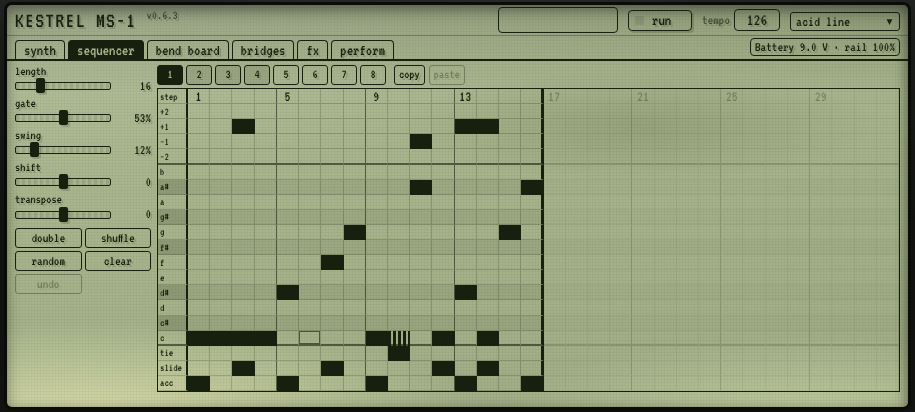
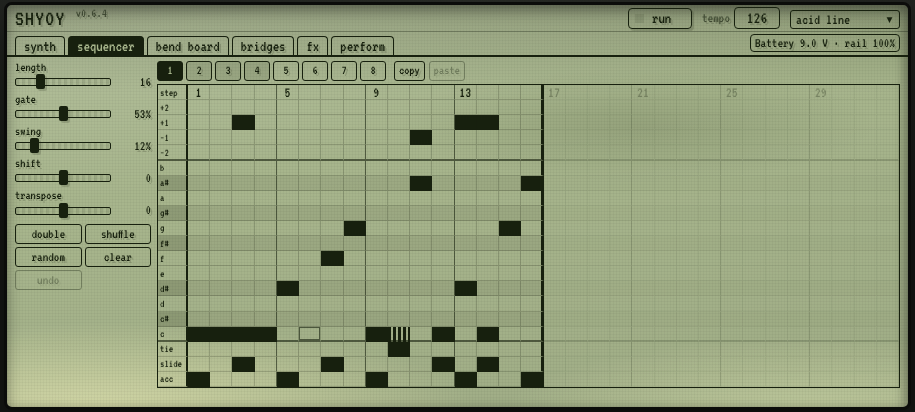
Rename to Shyoy, remove scope (v0.7.0)
Claude-Session: https://claude.ai/code/session_018ENZqToTPTY7BRZqa8ZT6d

Changed region(s): [[0.0, 0.0, 1.0, 0.9612], [0.4284, 0.466, 0.4896, 0.4951], [0.5508, 0.466, 0.5814, 0.4951]]

diff --git a/index.html b/index.html
@@ -9,7 +9,7 @@
 <link rel="apple-touch-icon" href="icons/apple-touch-icon.png">
 </head>
 <body>
-<title>Kestrel MS-1</title>
+<title>Shyoy</title>
 <meta name="claude:viewport-fit-sides" content="cover">
 <link rel="preconnect" href="https://fonts.googleapis.com">
 <link rel="stylesheet" href="https://fonts.googleapis.com/css2?family=VT323&display=swap">
@@ -66,7 +66,6 @@ select.btn { padding-right: 6px; }
 select.btn option { color: #000; }
 .num { display: flex; flex-direction: column; align-items: flex-start; gap: 0; font-size: 18px; color: var(--muted); text-transform: lowercase; }
 .num input { width: 64px; font-size: 26px; background: none; color: var(--ink); border: 2px solid var(--ink); border-radius: 4px; padding: 0 6px; text-align: center; text-shadow: var(--shadow); }
-canvas.scope { width: 200px; height: 46px; border: 2px solid var(--ink); border-radius: 4px; display: block; }
 
 .rack { display: grid; grid-template-columns: repeat(auto-fit, minmax(150px, auto)); gap: 0; border-bottom: var(--rule); }
 .mod { padding: 10px 14px 12px; border-right: var(--rule); display: flex; flex-direction: column; gap: 8px; min-width: 0; }
@@ -269,7 +268,6 @@ table.mx { border-collapse: separate; border-spacing: 4px; font-size: 17px; }
 .status { font-size: 17px; color: var(--muted); }
 @media (max-width: 700px) {
   .mod { border-right: 0; border-bottom: var(--rule); }
-  canvas.scope { width: 100%; }
   .brand { margin-right: 0; width: 100%; }
 }
 @media (prefers-reduced-motion: reduce) { * { transition: none !important; } }
@@ -282,7 +280,6 @@ table.mx { border-collapse: separate; border-spacing: 4px; font-size: 17px; }
   .lower { display: contents; }
   .top { order: 0; padding: 2px 8px; gap: 4px 10px; flex-wrap: nowrap; flex: none; }
   .brand b { font-size: 22px; } .brand span { display: none; } .ver { font-size: 13px; }
-  canvas.scope { width: 120px; height: 26px; border-width: 1px; }
   .btn { font-size: 16px; padding: 0 6px; border-width: 1.5px; }
   .btn.play { min-width: 64px; }
   .num { flex-direction: row; align-items: center; gap: 4px; font-size: 14px; }
@@ -340,12 +337,11 @@ table.mx { border-collapse: separate; border-spacing: 4px; font-size: 17px; }
 <div class="rotate" role="alert">
   <svg viewBox="0 0 64 64" fill="none" stroke="currentColor" stroke-width="3" aria-hidden="true"><rect x="20" y="6" width="24" height="44" rx="3"/><path d="M29 44h6"/></svg>
   Turn your phone sideways
-  <small>Kestrel is laid out like the hardware, so it plays in landscape.</small>
+  <small>Shyoy is laid out like the hardware, so it plays in landscape.</small>
 </div>
 <div class="unit" id="unit">
   <header class="top">
-    <div class="brand"><b>KESTREL MS-1 <i class="ver" id="ver">v0.6.4</i></b><span>Circuit-modelled monosynth · bendable</span></div>
-    <canvas class="scope" id="scope" width="400" height="92" aria-label="Oscilloscope"></canvas>
+    <div class="brand"><b>SHYOY <i class="ver" id="ver">v0.7.0</i></b><span>Circuit-modelled monosynth · bendable</span></div>
     <div class="transport">
       <button class="btn play" id="play"><span class="led"></span><span id="playLab">Run</span></button>
       <label class="num">Tempo<input id="bpm" type="number" min="40" max="240" value="124"></label>
@@ -456,7 +452,7 @@ table.mx { border-collapse: separate; border-spacing: 4px; font-size: 17px; }
 </div>
 <div class="install" id="install" role="dialog" aria-labelledby="installH" hidden>
   <svg viewBox="0 0 32 32" aria-hidden="true"><rect x="3" y="3" width="26" height="26" rx="4" fill="none" stroke="currentColor" stroke-width="2.5"/><path d="M9 24v-5M14 24V9M19 24v-8M24 24v-11" stroke="currentColor" stroke-width="3"/></svg>
-  <div><b id="installH">Install Kestrel</b><span>Add it to your home screen. It opens full screen in landscape and works offline.</span></div>
+  <div><b id="installH">Install Shyoy</b><span>Add it to your home screen. It opens full screen in landscape and works offline.</span></div>
   <button class="btn" id="installGo">Install</button><button class="btn light" id="installNo">Not now</button>
 </div>
 <p class="hint">Play from your computer keyboard: <kbd>A</kbd>–<kbd>K</kbd> white keys, <kbd>W</kbd> <kbd>E</kbd> <kbd>T</kbd> <kbd>Y</kbd> <kbd>U</kbd> black keys, <kbd>Z</kbd>/<kbd>X</kbd> transpose low/high, <kbd>Space</kbd> run/stop. While a sequencer runs, keys transpose it. Arpeggio and the 100-step sequencer step once per LFO cycle, so the LFO rate is their tempo. In Load, each key adds a step; play the next key before releasing the last to tie them. Sound starts on your first click or key press. Your patch and pattern are kept in this browser.</p>
@@ -1719,12 +1715,10 @@ async function boot() {
     try { await ctx.audioWorklet.addModule(url); }
     catch (e) { await ctx.audioWorklet.addModule('data:application/javascript;base64,' + btoa(unescape(encodeURIComponent(code)))); }
     node = new AudioWorkletNode(ctx, 'kestrel-ms1', { numberOfInputs: 0, outputChannelCount: [2] });
-    analyser = ctx.createAnalyser(); analyser.fftSize = 2048;
-    node.connect(analyser); analyser.connect(ctx.destination);
+    node.connect(ctx.destination);
     node.port.onmessage = onEngineMsg;
     pushAll();
     if (ctx.state !== 'running') await ctx.resume();
-    requestAnimationFrame(drawScope);
   })();
   return booting;
 }
@@ -2494,7 +2488,7 @@ const download = (name, obj) => {
   a.download = name; document.body.appendChild(a); a.click(); a.remove(); setTimeout(() => URL.revokeObjectURL(a.href), 1000);
 };
 document.getElementById('prj-export').onclick = () => {
-  const nm = (document.getElementById('prj-name').value.trim() || 'kestrel-preset').replace(/[^\w .-]+/g, '_');
+  const nm = (document.getElementById('prj-name').value.trim() || 'shyoy-preset').replace(/[^\w .-]+/g, '_');
   download(nm + '.json', { app: 'kestrel-ms1', kind: 'project', version: 1, project: projectSnap(), presets: prjBar.user });
   prjBar.say(`Exported ${nm}.json with your ${Object.keys(prjBar.user).length} saved presets.`);
 };
@@ -2510,7 +2504,7 @@ prjFile.addEventListener('change', async () => {
     const nm = f.name.replace(/\.json$/i, '').trim().slice(0, 40) || 'Imported';
     prjBar.user[nm] = projectSnap(); prjBar.save(); prjBar.render('u:' + nm);
     prjBar.say(`Loaded ${nm}${n ? ` and added ${n} saved preset${n === 1 ? '' : 's'}` : ''}.`);
-  } catch (e) { prjBar.say('That file is not a Kestrel preset export.'); }
+  } catch (e) { prjBar.say('That file is not a Shyoy preset export.'); }
 });
 if (PROJECT_BUILTIN[state.preset]) prjBar.render('b:' + state.preset);
 for (const el of document.querySelectorAll('.pm')) presetMenu(el);
@@ -2542,22 +2536,6 @@ function renderPlayLed() {
   if (playStep >= 0 && running && seqCols[playStep]) { for (const el of seqCols[playStep]) el.classList.add('cur'); lastLed = playStep; }
 }
 
-// ---------- scope ----------
-const sc = document.getElementById('scope'), sctx = sc.getContext('2d'); let sbuf;
-function drawScope() {
-  requestAnimationFrame(drawScope);
-  if (!analyser) return;
-  if (!sbuf) sbuf = new Float32Array(analyser.fftSize);
-  analyser.getFloatTimeDomainData(sbuf);
-  let z = 0; for (let i = 1; i < sbuf.length / 2; i++) if (sbuf[i - 1] < 0 && sbuf[i] >= 0) { z = i; break; }
-  const W = sc.width, H = sc.height;
-  sctx.clearRect(0, 0, W, H);
-  sctx.strokeStyle = 'rgba(23,32,14,.18)'; sctx.beginPath(); sctx.moveTo(0, H / 2); sctx.lineTo(W, H / 2); sctx.stroke();
-  sctx.strokeStyle = '#17200e'; sctx.lineWidth = 3; sctx.beginPath();
-  const N = 900;
-  for (let i = 0; i < N; i++) { const y = H / 2 - sbuf[z + i] * H * 0.9; i ? sctx.lineTo(i / N * W, y) : sctx.moveTo(0, y); }
-  sctx.stroke();
-}
 
 
 // ---------- keyboard: 32 keys, F to C ----------

diff --git a/src/ui.html b/src/ui.html
@@ -1,4 +1,4 @@
-<title>Kestrel MS-1</title>
+<title>Shyoy</title>
 <meta name="claude:viewport-fit-sides" content="cover">
 <link rel="preconnect" href="https://fonts.googleapis.com">
 <link rel="stylesheet" href="https://fonts.googleapis.com/css2?family=VT323&display=swap">
@@ -55,7 +55,6 @@ select.btn { padding-right: 6px; }
 select.btn option { color: #000; }
 .num { display: flex; flex-direction: column; align-items: flex-start; gap: 0; font-size: 18px; color: var(--muted); text-transform: lowercase; }
 .num input { width: 64px; font-size: 26px; background: none; color: var(--ink); border: 2px solid var(--ink); border-radius: 4px; padding: 0 6px; text-align: center; text-shadow: var(--shadow); }
-canvas.scope { width: 200px; height: 46px; border: 2px solid var(--ink); border-radius: 4px; display: block; }
 
 .rack { display: grid; grid-template-columns: repeat(auto-fit, minmax(150px, auto)); gap: 0; border-bottom: var(--rule); }
 .mod { padding: 10px 14px 12px; border-right: var(--rule); display: flex; flex-direction: column; gap: 8px; min-width: 0; }
@@ -258,7 +257,6 @@ table.mx { border-collapse: separate; border-spacing: 4px; font-size: 17px; }
 .status { font-size: 17px; color: var(--muted); }
 @media (max-width: 700px) {
   .mod { border-right: 0; border-bottom: var(--rule); }
-  canvas.scope { width: 100%; }
   .brand { margin-right: 0; width: 100%; }
 }
 @media (prefers-reduced-motion: reduce) { * { transition: none !important; } }
@@ -271,7 +269,6 @@ table.mx { border-collapse: separate; border-spacing: 4px; font-size: 17px; }
   .lower { display: contents; }
   .top { order: 0; padding: 2px 8px; gap: 4px 10px; flex-wrap: nowrap; flex: none; }
   .brand b { font-size: 22px; } .brand span { display: none; } .ver { font-size: 13px; }
-  canvas.scope { width: 120px; height: 26px; border-width: 1px; }
   .btn { font-size: 16px; padding: 0 6px; border-width: 1.5px; }
   .btn.play { min-width: 64px; }
   .num { flex-direction: row; align-items: center; gap: 4px; font-size: 14px; }
@@ -329,12 +326,11 @@ table.mx { border-collapse: separate; border-spacing: 4px; font-size: 17px; }
 <div class="rotate" role="alert">
   <svg viewBox="0 0 64 64" fill="none" stroke="currentColor" stroke-width="3" aria-hidden="true"><rect x="20" y="6" width="24" height="44" rx="3"/><path d="M29 44h6"/></svg>
   Turn your phone sideways
-  <small>Kestrel is laid out like the hardware, so it plays in landscape.</small>
+  <small>Shyoy is laid out like the hardware, so it plays in landscape.</small>
 </div>
 <div class="unit" id="unit">
   <header class="top">
-    <div class="brand"><b>KESTREL MS-1 <i class="ver" id="ver">v__VERSION__</i></b><span>Circuit-modelled monosynth · bendable</span></div>
-    <canvas class="scope" id="scope" width="400" height="92" aria-label="Oscilloscope"></canvas>
+    <div class="brand"><b>SHYOY <i class="ver" id="ver">v__VERSION__</i></b><span>Circuit-modelled monosynth · bendable</span></div>
     <div class="transport">
       <button class="btn play" id="play"><span class="led"></span><span id="playLab">Run</span></button>
       <label class="num">Tempo<input id="bpm" type="number" min="40" max="240" value="124"></label>
@@ -445,7 +441,7 @@ table.mx { border-collapse: separate; border-spacing: 4px; font-size: 17px; }
 </div>
 <div class="install" id="install" role="dialog" aria-labelledby="installH" hidden>
   <svg viewBox="0 0 32 32" aria-hidden="true"><rect x="3" y="3" width="26" height="26" rx="4" fill="none" stroke="currentColor" stroke-width="2.5"/><path d="M9 24v-5M14 24V9M19 24v-8M24 24v-11" stroke="currentColor" stroke-width="3"/></svg>
-  <div><b id="installH">Install Kestrel</b><span>Add it to your home screen. It opens full screen in landscape and works offline.</span></div>
+  <div><b id="installH">Install Shyoy</b><span>Add it to your home screen. It opens full screen in landscape and works offline.</span></div>
   <button class="btn" id="installGo">Install</button><button class="btn light" id="installNo">Not now</button>
 </div>
 <p class="hint">Play from your computer keyboard: <kbd>A</kbd>–<kbd>K</kbd> white keys, <kbd>W</kbd> <kbd>E</kbd> <kbd>T</kbd> <kbd>Y</kbd> <kbd>U</kbd> black keys, <kbd>Z</kbd>/<kbd>X</kbd> transpose low/high, <kbd>Space</kbd> run/stop. While a sequencer runs, keys transpose it. Arpeggio and the 100-step sequencer step once per LFO cycle, so the LFO rate is their tempo. In Load, each key adds a step; play the next key before releasing the last to tie them. Sound starts on your first click or key press. Your patch and pattern are kept in this browser.</p>
@@ -642,12 +638,10 @@ async function boot() {
     try { await ctx.audioWorklet.addModule(url); }
     catch (e) { await ctx.audioWorklet.addModule('data:application/javascript;base64,' + btoa(unescape(encodeURIComponent(code)))); }
     node = new AudioWorkletNode(ctx, 'kestrel-ms1', { numberOfInputs: 0, outputChannelCount: [2] });
-    analyser = ctx.createAnalyser(); analyser.fftSize = 2048;
-    node.connect(analyser); analyser.connect(ctx.destination);
+    node.connect(ctx.destination);
     node.port.onmessage = onEngineMsg;
     pushAll();
     if (ctx.state !== 'running') await ctx.resume();
-    requestAnimationFrame(drawScope);
   })();
   return booting;
 }
@@ -1417,7 +1411,7 @@ const download = (name, obj) => {
   a.download = name; document.body.appendChild(a); a.click(); a.remove(); setTimeout(() => URL.revokeObjectURL(a.href), 1000);
 };
 document.getElementById('prj-export').onclick = () => {
-  const nm = (document.getElementById('prj-name').value.trim() || 'kestrel-preset').replace(/[^\w .-]+/g, '_');
+  const nm = (document.getElementById('prj-name').value.trim() || 'shyoy-preset').replace(/[^\w .-]+/g, '_');
   download(nm + '.json', { app: 'kestrel-ms1', kind: 'project', version: 1, project: projectSnap(), presets: prjBar.user });
   prjBar.say(`Exported ${nm}.json with your ${Object.keys(prjBar.user).length} saved presets.`);
 };
@@ -1433,7 +1427,7 @@ prjFile.addEventListener('change', async () => {
     const nm = f.name.replace(/\.json$/i, '').trim().slice(0, 40) || 'Imported';
     prjBar.user[nm] = projectSnap(); prjBar.save(); prjBar.render('u:' + nm);
     prjBar.say(`Loaded ${nm}${n ? ` and added ${n} saved preset${n === 1 ? '' : 's'}` : ''}.`);
-  } catch (e) { prjBar.say('That file is not a Kestrel preset export.'); }
+  } catch (e) { prjBar.say('That file is not a Shyoy preset export.'); }
 });
 if (PROJECT_BUILTIN[state.preset]) prjBar.render('b:' + state.preset);
 for (const el of document.querySelectorAll('.pm')) presetMenu(el);
@@ -1465,22 +1459,6 @@ function renderPlayLed() {
   if (playStep >= 0 && running && seqCols[playStep]) { for (const el of seqCols[playStep]) el.classList.add('cur'); lastLed = playStep; }
 }
 
-// ---------- scope ----------
-const sc = document.getElementById('scope'), sctx = sc.getContext('2d'); let sbuf;
-function drawScope() {
-  requestAnimationFrame(drawScope);
-  if (!analyser) return;
-  if (!sbuf) sbuf = new Float32Array(analyser.fftSize);
-  analyser.getFloatTimeDomainData(sbuf);
-  let z = 0; for (let i = 1; i < sbuf.length / 2; i++) if (sbuf[i - 1] < 0 && sbuf[i] >= 0) { z = i; break; }
-  const W = sc.width, H = sc.height;
-  sctx.clearRect(0, 0, W, H);
-  sctx.strokeStyle = 'rgba(23,32,14,.18)'; sctx.beginPath(); sctx.moveTo(0, H / 2); sctx.lineTo(W, H / 2); sctx.stroke();
-  sctx.strokeStyle = '#17200e'; sctx.lineWidth = 3; sctx.beginPath();
-  const N = 900;
-  for (let i = 0; i < N; i++) { const y = H / 2 - sbuf[z + i] * H * 0.9; i ? sctx.lineTo(i / N * W, y) : sctx.moveTo(0, y); }
-  sctx.stroke();
-}
 
 
 // ---------- keyboard: 32 keys, F to C ----------

diff --git a/sw.js b/sw.js
@@ -1,6 +1,6 @@
 // Offline support (same approach as the 303 app): the page is fetched fresh when online, so updates arrive,
 // and served from cache when not. Icons, manifest and fonts are cache-first. The cache name carries the version.
-const CACHE = 'kestrel-0.6.4';
+const CACHE = 'kestrel-0.7.0';
 const CORE = ['./', './manifest.webmanifest', './icons/icon-192.png', './icons/icon-512.png', './icons/apple-touch-icon.png'];
 self.addEventListener('install', (e) => { e.waitUntil(caches.open(CACHE).then((c) => c.addAll(CORE)).then(() => self.skipWaiting())); });
 self.addEventListener('activate', (e) => { e.waitUntil(caches.keys().then((ks) => Promise.all(ks.filter((k) => k !== CACHE).map((k) => caches.delete(k)))).then(() => self.clients.claim())); });

diff --git a/README.md b/README.md
@@ -1,4 +1,4 @@
-# Kestrel MS-1
+# Shyoy (formerly Kestrel MS-1)
 
 A circuit-modelled monosynth for the browser, with a 303-style step sequencer and a bend board for circuit-bending the model while it plays. Its architecture follows the classic single-VCO battery monosynth (VCO with sub-oscillator, 4-pole OTA filter, one envelope, LFO). It is an independent design: no Roland code, artwork or branding is used.
 
@@ -79,6 +79,7 @@ The version shows next to the name at the top of the synth and comes from `packa
 - **0.6.2**: accent's filter push now goes through the VCF ENV slider (the 101's only envelope route into the VCF CV summer), so with ENV and KYBD at 0 the cutoff stays put. Accent still lifts the VCA.
 - **0.6.3**: ACC→VCF switch in Perform: Env (default, filter push follows the ENV slider) or Always (the old 303-style push).
 - **0.6.4**: the ACC→VCF switch is replaced by an ACC depth fader on the VCF (0 = off as on a real 101, up to +4 octaves per accent, independent of ENV).
+- **0.7.0**: renamed Shyoy (was Kestrel MS-1); the oscilloscope is removed. Saved presets and settings carry over.
 - **0.4.0**: piano-roll sequencer (up to 64 steps), tabbed panels, phones lock to landscape and the whole synth fits one screen on a Pixel 9a (915 x 412). VCA input level now taken from the schematic (R130 150k / R139 1k). Full check against the high-res service manual.
 - **0.3.0**: LCD look; CEM3340 VCO model.
 - **0.2.0**: full SH-101 feature set (arpeggio, 100-step sequencer, bender, transpose) and schematic values from the service manual.
